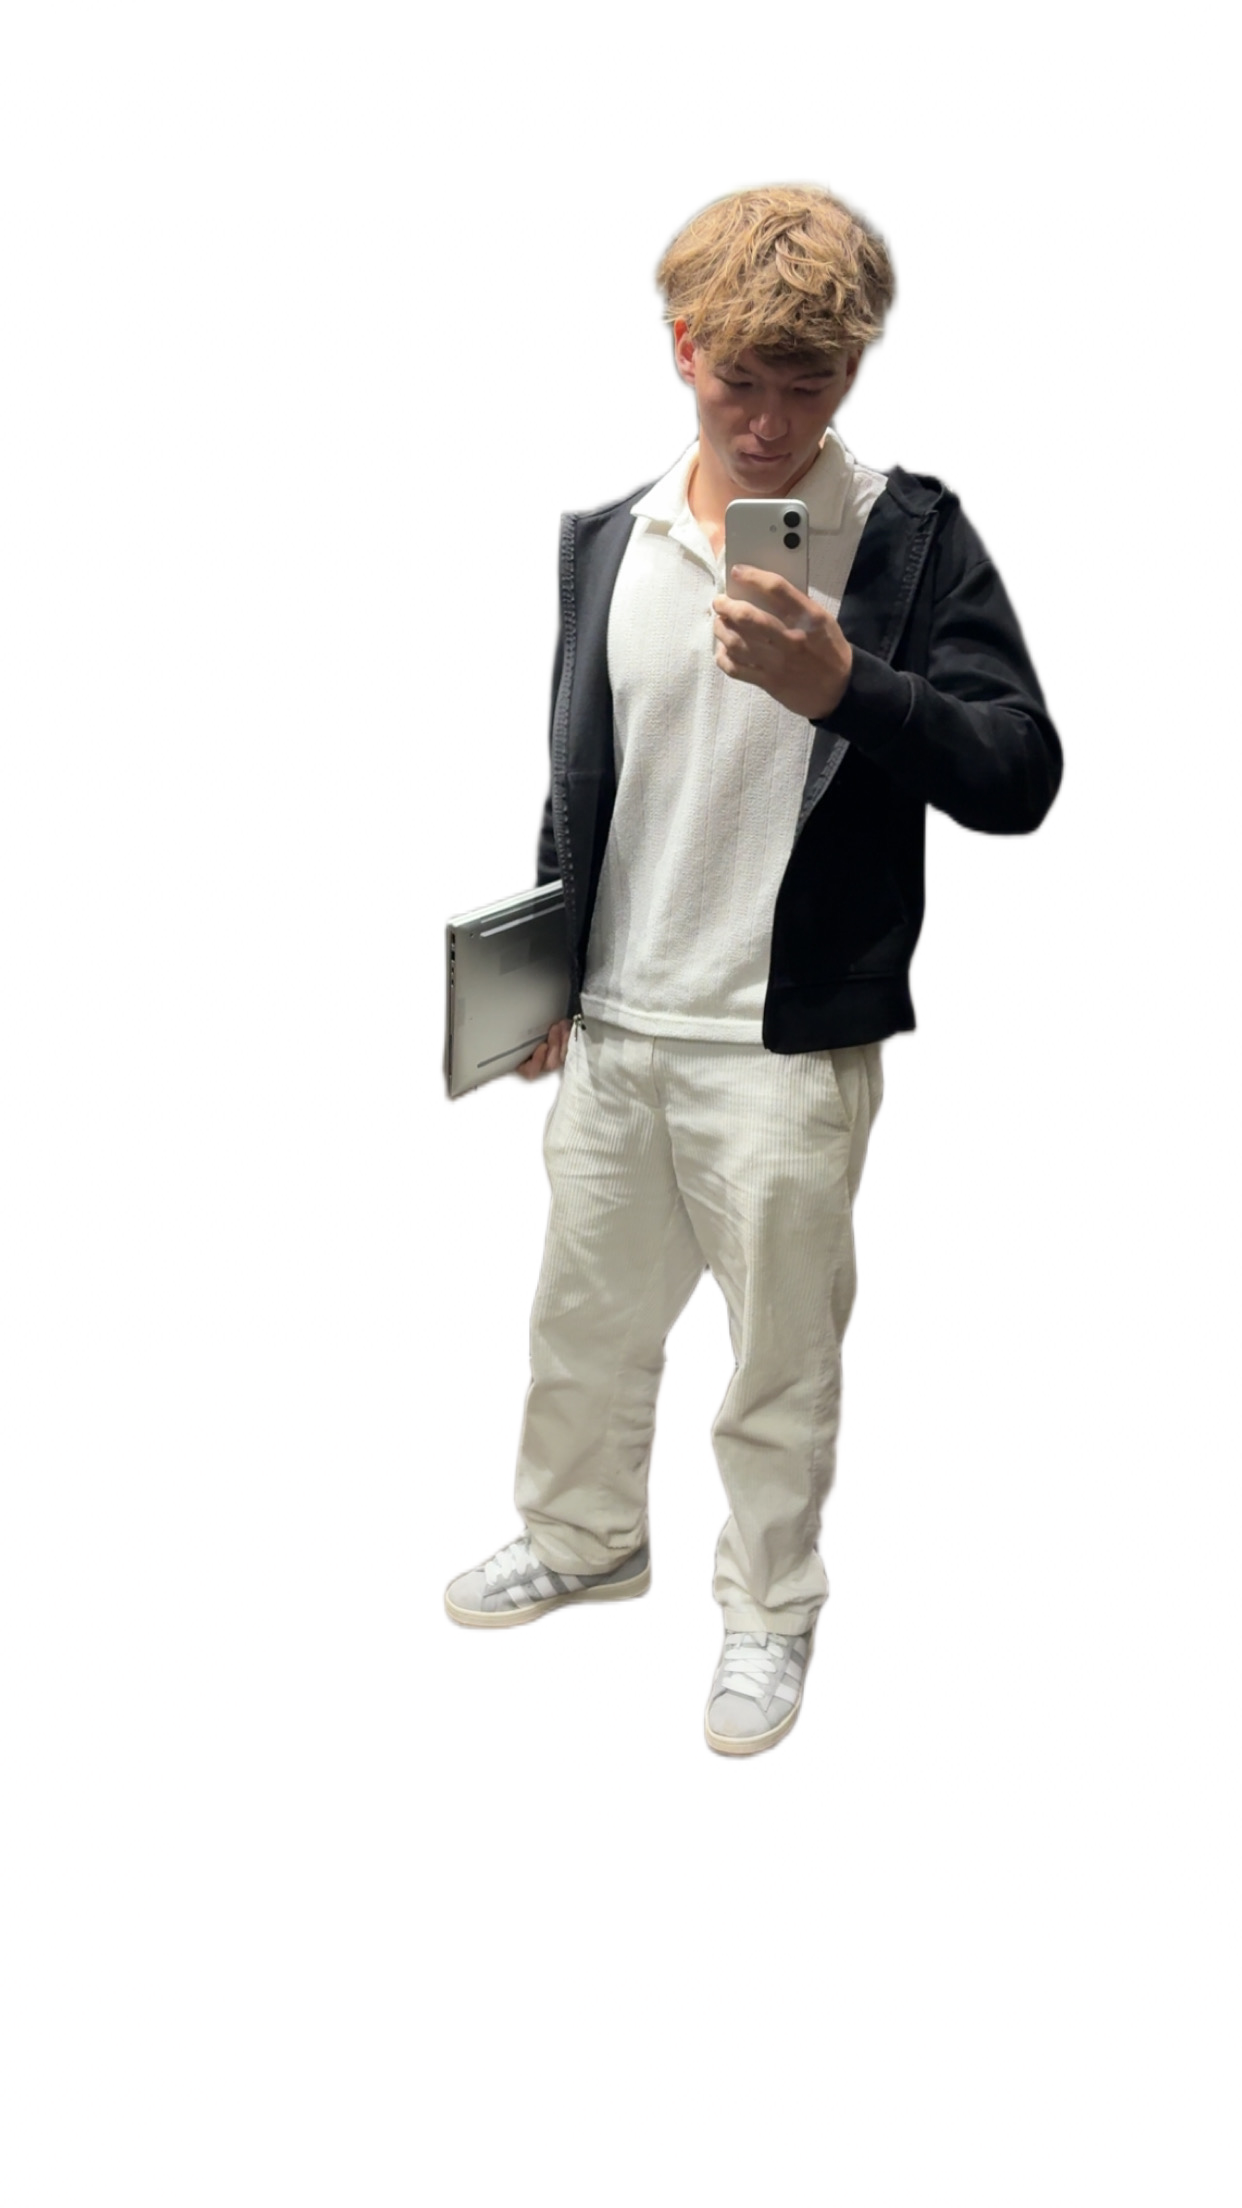
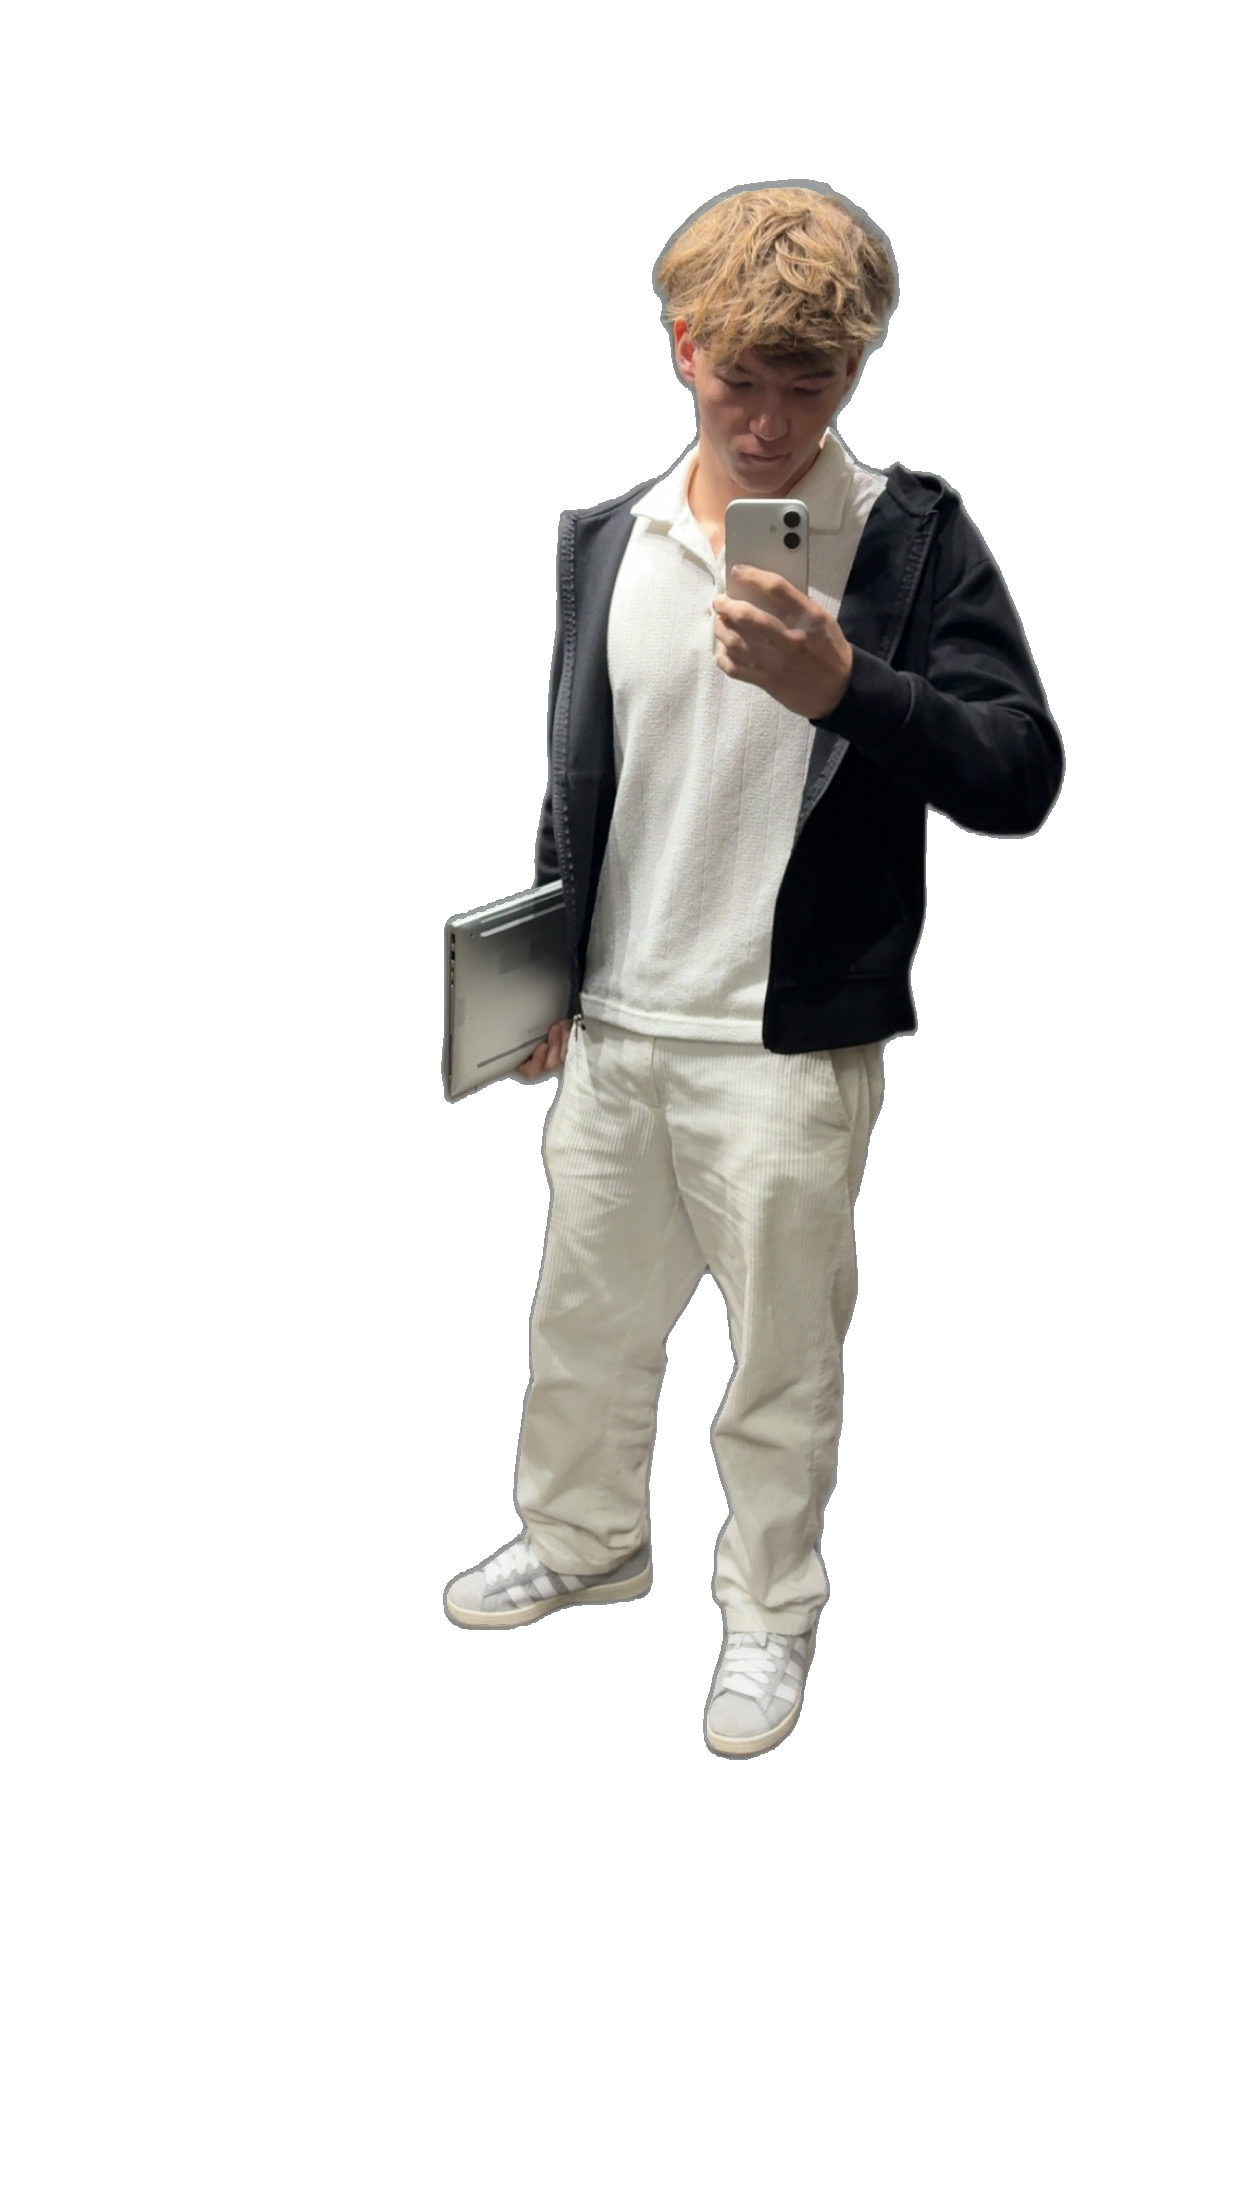
fix: couleur Dennis + badge z-index + photo defringe + bottom fade

diff --git a/css/style.css b/css/style.css
@@ -167,7 +167,7 @@ body.c-proj  #curR { opacity: 0; }
   width: 100%;
   height: 100vh;
   min-height: 640px;
-  background: #b5b5b0;
+  background: #999D9E;
   overflow: hidden;
 }
 
@@ -209,10 +209,10 @@ body.c-proj  #curR { opacity: 0; }
 .hero-photo {
   position: absolute;
   top: 0;
-  left: 47%;
+  left: 50%;
   transform: translateX(-50%);
-  width: 78vw;
-  max-width: 1200px;
+  width: 72vw;
+  max-width: 1050px;
   min-width: 520px;
   height: 100%;
   z-index: 10;
@@ -239,6 +239,21 @@ body.c-proj  #curR { opacity: 0; }
   object-fit: cover;
   object-position: top center;
   display: block;
+  filter: drop-shadow(0 4px 20px rgba(0,0,0,.12));
+  image-rendering: -webkit-optimize-contrast;
+}
+
+/* Smooth bottom fade so legs blend into bg */
+.hero-photo::after {
+  content: '';
+  position: absolute;
+  bottom: 0;
+  left: 0;
+  right: 0;
+  height: 18%;
+  background: linear-gradient(to bottom, transparent, #999D9E);
+  z-index: 11;
+  pointer-events: none;
 }
 
 .photo-hint { display: none; }
@@ -285,7 +300,7 @@ body.c-proj  #curR { opacity: 0; }
   background: #1a1a1a;
   border-radius: 100px;
   padding: 11px 11px 11px 20px;
-  z-index: 20;
+  z-index: 25;
   will-change: transform, opacity;
 }
 
